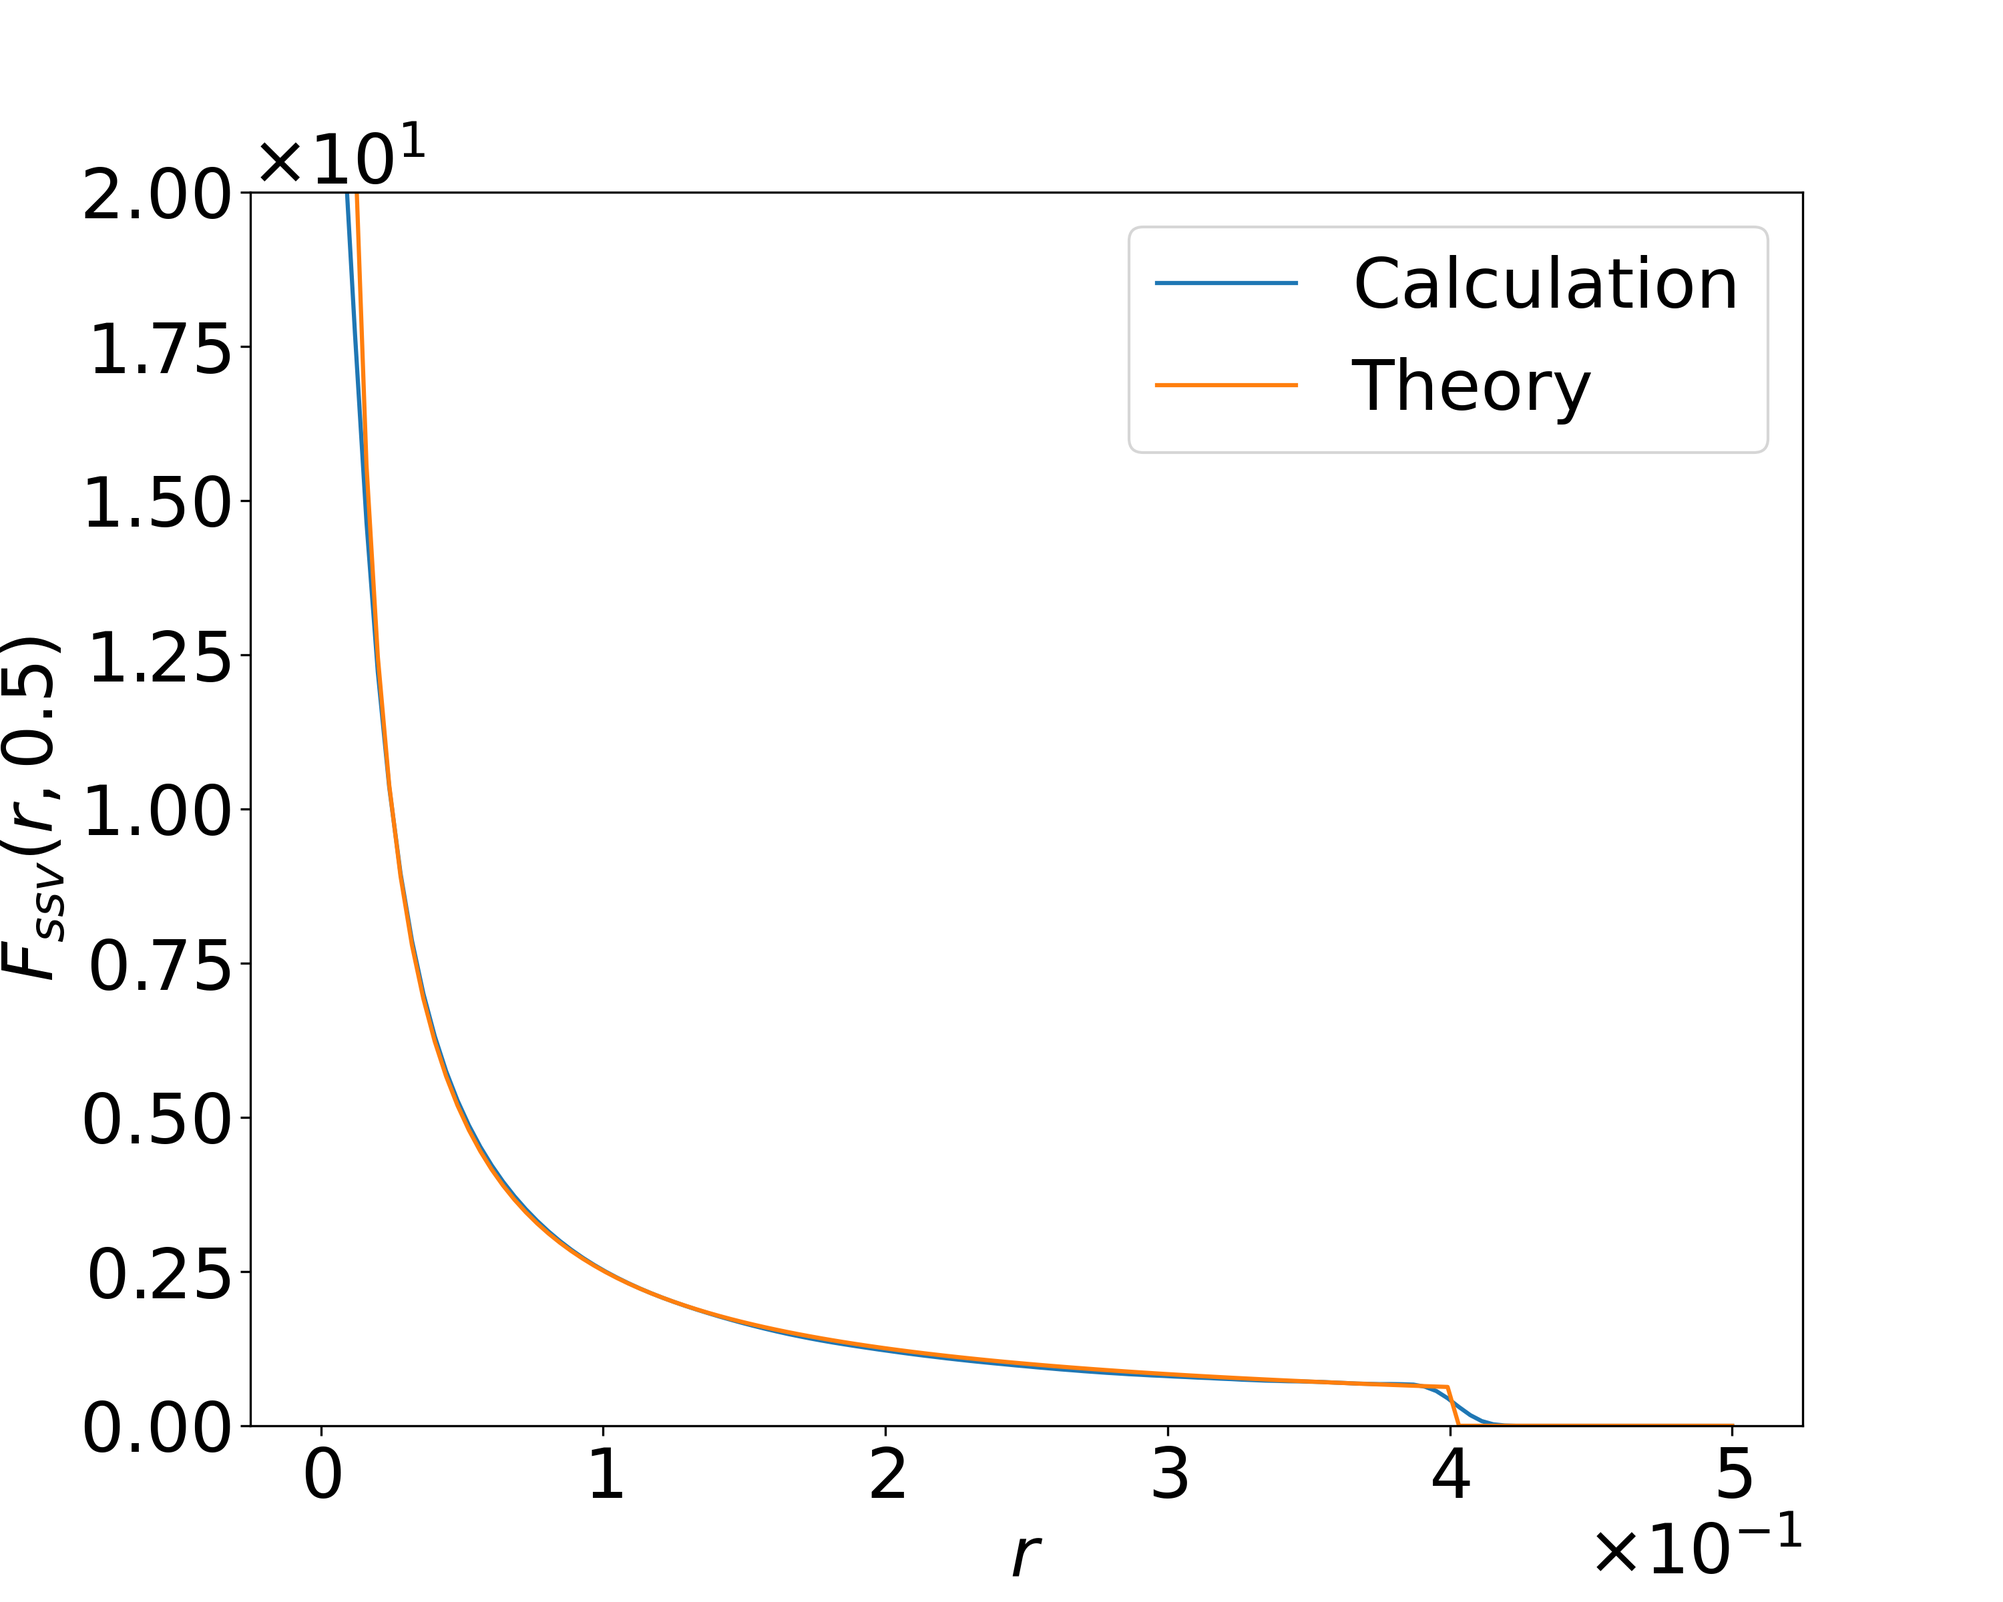
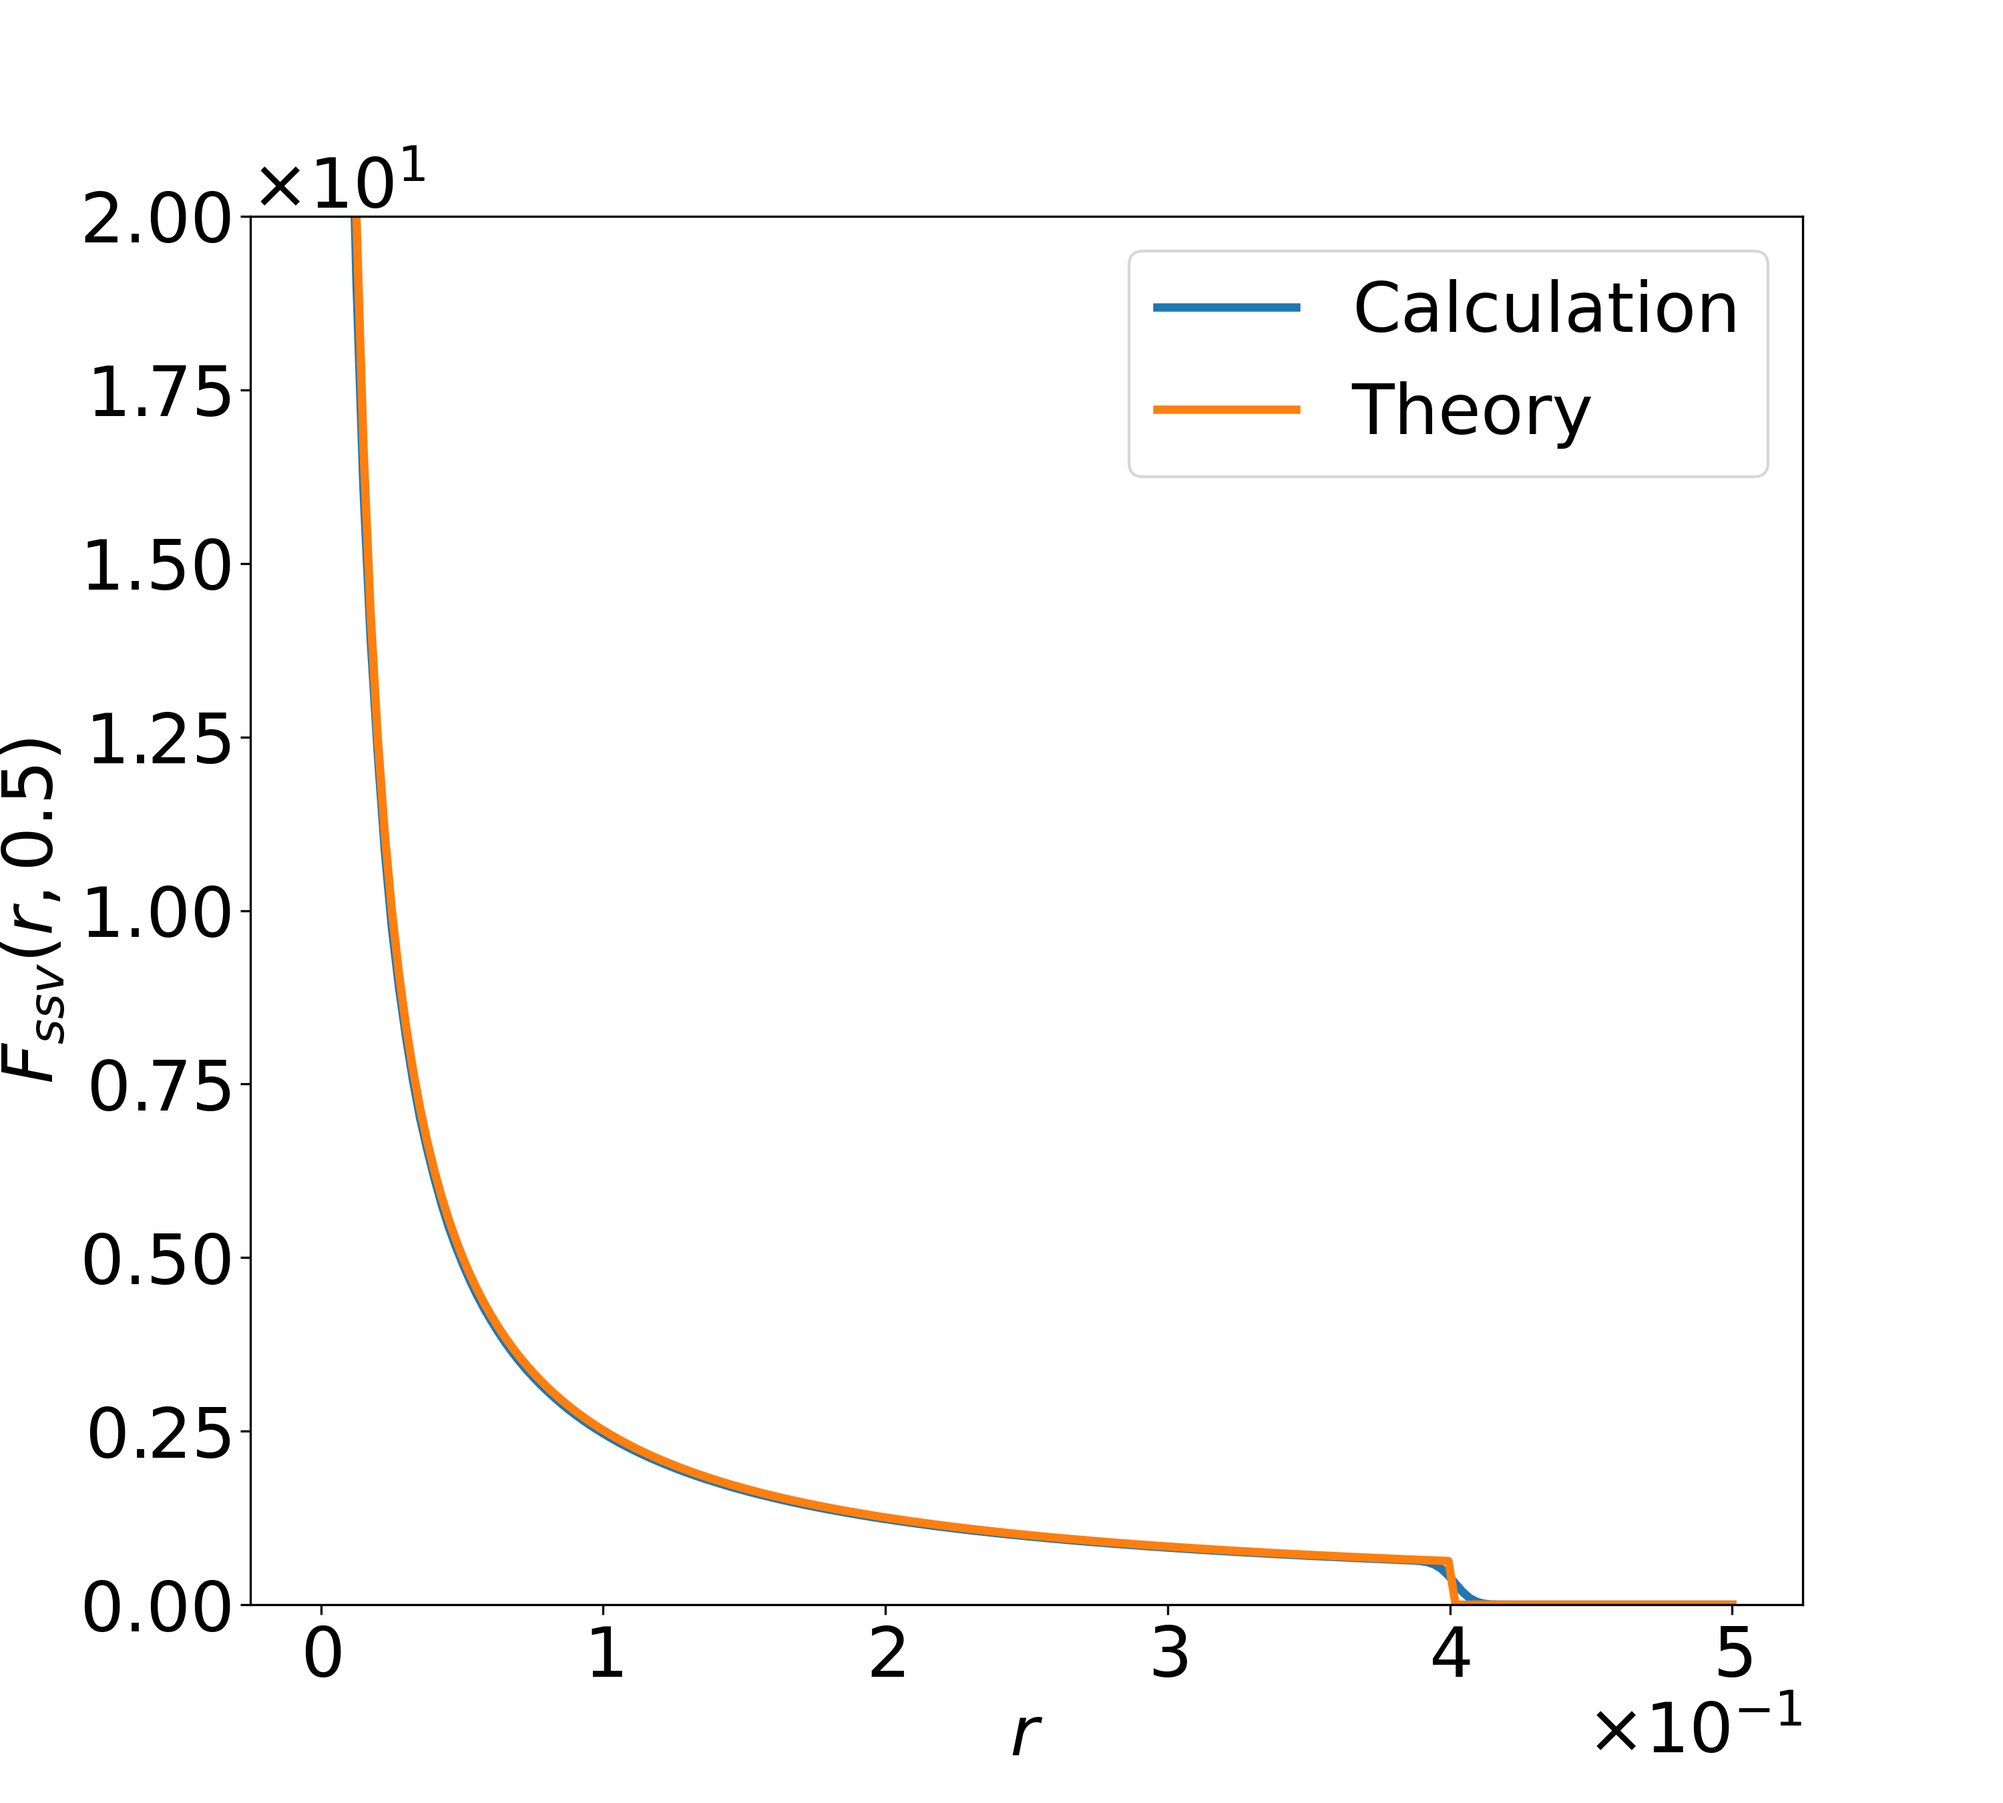
Line thickness (2/N)

diff --git a/data/plot-surface.py b/data/plot-surface.py
@@ -13,10 +13,10 @@ ssc = np.load('ball-ss.npy')
 svc = np.load('ball-sv.npy')
 
 xs = np.linspace(0, 0.5, ssc.size)
-plt.figure(figsize = (10, 8), dpi = 300)
+plt.figure(figsize = (10, 9), dpi = 300)
 plt.rc('font', size = 25)
-plt.plot(xs, ssc)
-plt.plot(xs, ss(xs, 0.2))
+plt.plot(xs, ssc, linewidth = 3)
+plt.plot(xs, ss(xs, 0.2), linewidth = 3)
 plt.ylim([0, 20])
 plt.xlabel(r'$r$')
 plt.ylabel(r'$F_{ssv}(r, 0.5)$')
@@ -26,10 +26,10 @@ plt.ticklabel_format(axis = "x", scilimits = (0, 0), useMathText = True)
 plt.savefig('../images/ball-ssv.png')
 
 xs = np.linspace(0, 0.5, svc.size)
-plt.figure(figsize = (10, 8), dpi = 300)
+plt.figure(figsize = (10, 9), dpi = 300)
 plt.rc('font', size = 25)
-plt.plot(xs, svc)
-plt.plot(xs, sv(xs, 0.2))
+plt.plot(xs, svc, linewidth = 3)
+plt.plot(xs, sv(xs, 0.2), linewidth = 3)
 plt.xlabel(r'$r$')
 plt.ylabel(r'$F_{svv}(r, 0.5)$')
 plt.legend(['Calculation', 'Theory'])
